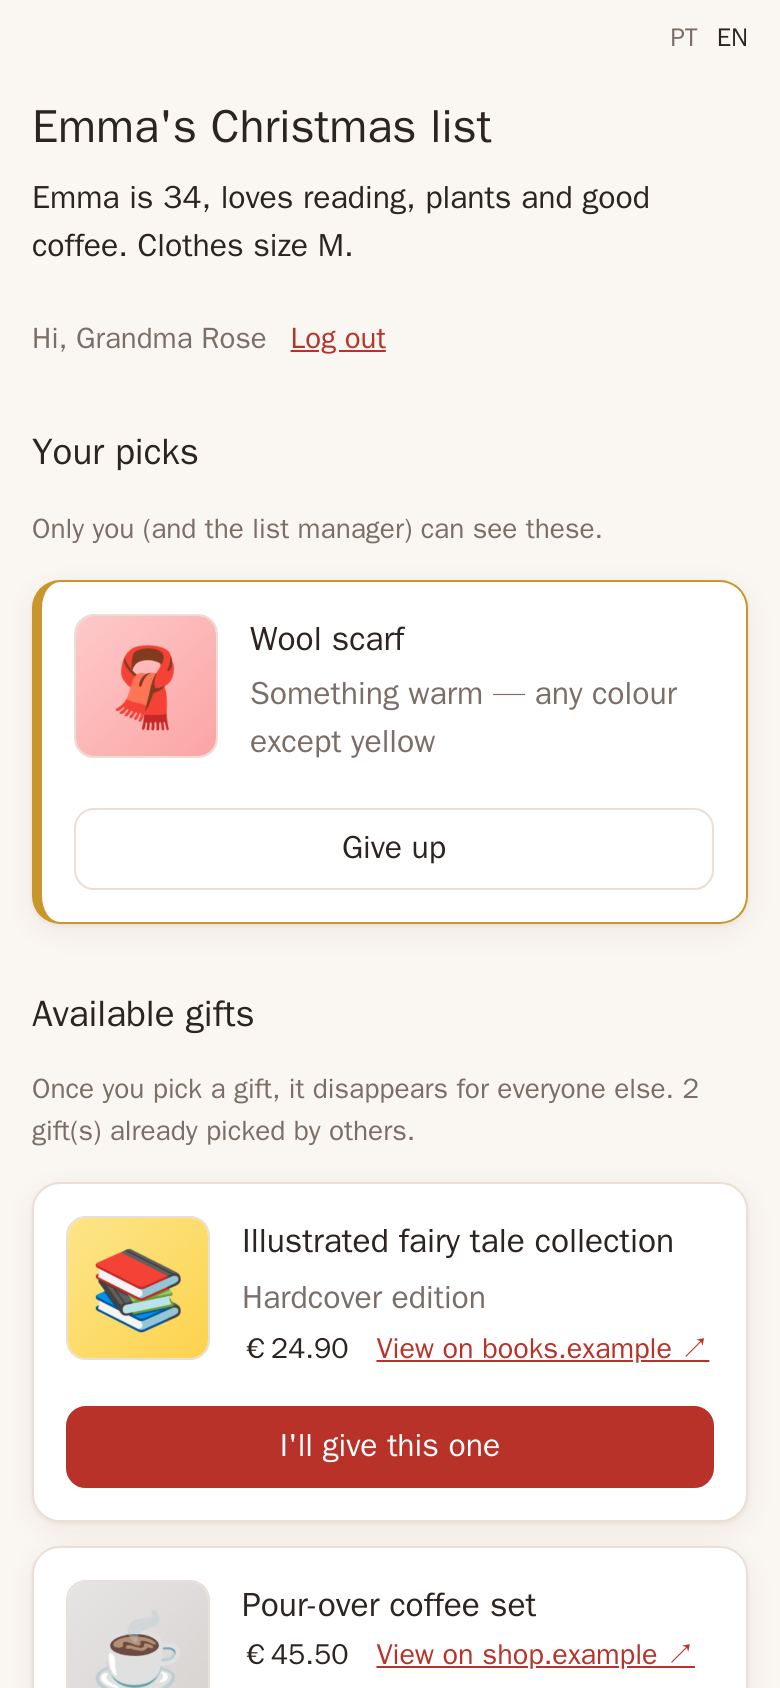
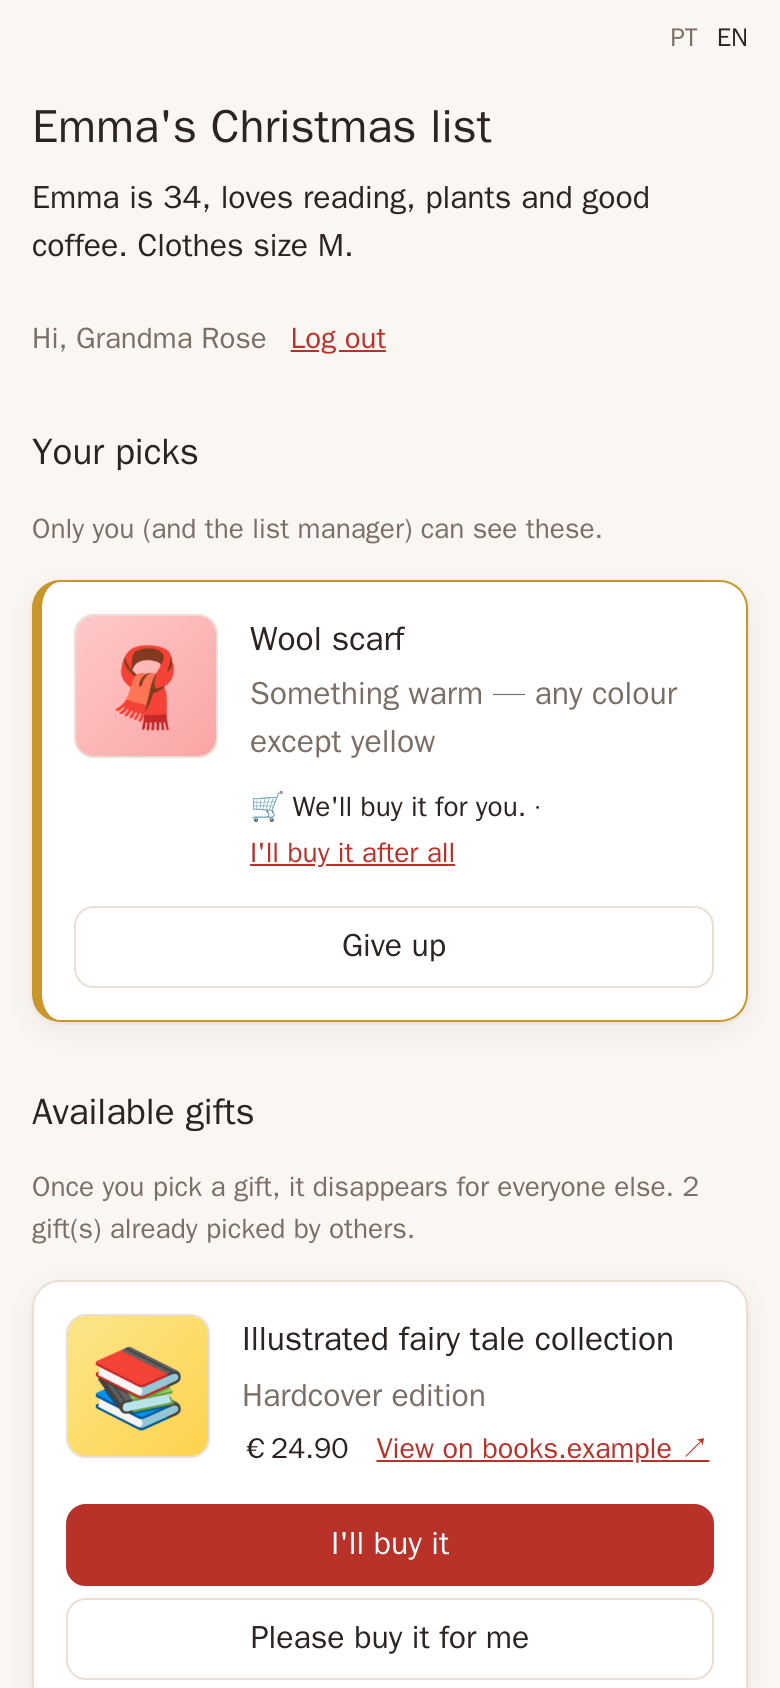
Giftly 5.3.0: version, README screenshots with "who buys the gift"
The demo list asks who buys: the guest GIF taps "I'll buy it", the guest
screenshot shows "We'll buy it for you", and the admin list shows the
badge, the count left to buy and "Mark as bought".

Claude-Session: https://claude.ai/code/session_01Cyv5ZQdsXwJ7q5JejjFbq9

Changed region(s): [[0.0308, 0.4621, 0.9538, 1.0]]

diff --git a/tools/screenshots/lists.js b/tools/screenshots/lists.js
@@ -27,6 +27,7 @@ async function phase1(admin) {
   await admin.goto(`${B}/admin/lists/new`);
   await admin.fill('input[name=title]', "Emma's Christmas list");
   await admin.fill('textarea[name=description]', 'Emma is 34, loves reading, plants and good coffee. Clothes size M.');
+  await admin.check('input[type=checkbox][name=ask_buyer]'); // guests say who buys the gift
   await admin.click('form[action="/admin/lists"] button[type=submit]');
   const listUrl = admin.url().split('?')[0];
   fs.writeFileSync(`${OUT}/../listurl`, listUrl);
@@ -54,8 +55,8 @@ async function phase2(browser, admin) {
     await p.goto(share);
     await p.fill('input[name=name]', name);
     await p.click('button[type=submit]');
-    for (const title of picks) {
-      await p.locator('li.item', { hasText: title }).locator('button').click();
+    for (const [title, buyer] of picks) {
+      await p.locator('li.item', { hasText: title }).locator(`button[value=${buyer}]`).click();
       await p.waitForURL(/m=/);
     }
     await p.goto(share);
@@ -70,10 +71,10 @@ async function phase2(browser, admin) {
     await p.screenshot({ path: `${OUT}/join-mobile.png` });
     await ctx.close();
   }
-  const tom = await guest('Uncle Tom', desktop, ['Wireless headphones']);
+  const tom = await guest('Uncle Tom', desktop, [['Wireless headphones', 'us']]);
   await tom.ctx.close();
   await recordGuestFlow(browser, share);
-  const rose = await guest('Grandma Rose', mobile, ['Wool scarf']);
+  const rose = await guest('Grandma Rose', mobile, [['Wool scarf', 'us']]);
   await rose.p.screenshot({ path: `${OUT}/guest-list.png` });
   await rose.ctx.close();
   const dark = await guest('Grandma Rose', { ...mobile, colorScheme: 'dark' }, []);
@@ -152,7 +153,7 @@ async function recordGuestFlow(browser, share) {
   }, target);
   await pause(1000);
   const before = p.url();
-  await tap(item.locator('button'));
+  await tap(item.locator('button[value=guest]'));
   await p.waitForURL((u) => u.href !== before);
   await p.waitForLoadState();
   await pause(1200);

diff --git a/README.md b/README.md
@@ -30,9 +30,9 @@ No more two aunts buying the same toaster.</p>
 Made for the phone first. This is how guests and admins see it:
 
 <p align="center">
-  <img src="docs/screenshots/guest-flow.gif" alt="A guest opens the list link on a phone, types their name, scrolls to a plant and taps “I'll give this one”; it moves to their picks" width="240">
+  <img src="docs/screenshots/guest-flow.gif" alt="A guest opens the list link on a phone, types their name, scrolls to a plant and taps “I'll buy it”; it moves to their picks" width="240">
   &nbsp;
-  <img src="docs/screenshots/guest-list.png" alt="A guest's view of a gift list on a phone: their own pick at the top, available gifts with images, prices and shop links below" width="240">
+  <img src="docs/screenshots/guest-list.png" alt="A guest's view of a gift list on a phone: their own pick at the top (they asked the hosts to buy it), available gifts with images, prices and shop links below" width="240">
   &nbsp;
   <img src="docs/screenshots/guest-mobile-dark.png" alt="The gift list on a phone in dark mode" width="240">
 </p>
@@ -51,7 +51,7 @@ Made for the phone first. This is how guests and admins see it:
 <details>
 <summary><strong>Lists and wishlists</strong></summary>
 <p align="center">
-  <img src="docs/screenshots/admin-list.png" alt="Admin page of a list on a phone: every gift with who reserved it, and add, edit, release and reorder actions" width="240">
+  <img src="docs/screenshots/admin-list.png" alt="Admin page of a list on a phone: every gift with who reserved it and who buys it, mark as bought, and add, edit, release and reorder actions" width="240">
   &nbsp;
   <img src="docs/screenshots/wishlist-own.png" alt="Your own wishlist: items in order of preference, with no hint of what was reserved" width="240">
   &nbsp;
